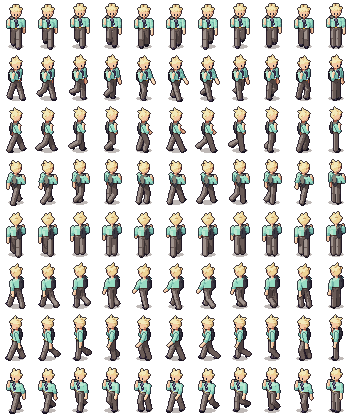
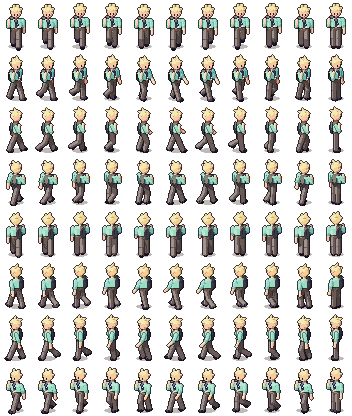
feat(art): square off dress shoes
Dress shoes were an ellipsoid barely different from heels. They are now
a box with a flat sole and a square toe. Render version 6, since dress
shoes draw differently for the same spec.

Changed region(s): [[0.8438, 0.7188, 0.875, 0.75], [0.4688, 0.7188, 0.5, 0.75], [0.0312, 0.0938, 0.0625, 0.125]]

diff --git a/src/art/shoes.node.test.ts b/src/art/shoes.node.test.ts
@@ -1,0 +1,50 @@
+import { describe, expect, it } from 'vitest';
+import { BASE_CHARACTERS, type CharacterSpec, type ShoeStyle } from './characters.ts';
+import { rampsFor } from './rig.ts';
+import { buildCharacterSprites, frameRect } from './spriteSheet.ts';
+import type { Direction } from './directions.ts';
+
+/** The lowest rows of a standing frame: the feet and nothing above the ankles. */
+const FEET_ROWS = 8;
+
+/** A skirt keeps trousers off the feet, so every shoe pixel is the shoe's own. */
+function wearing(shoes: ShoeStyle): CharacterSpec {
+  const base = BASE_CHARACTERS[0]!;
+  return { ...base, bottom: 'skirt', shoes, palette: { ...base.palette, shoes: '#2c4cc9' } };
+}
+
+/** The shoe pixels of a standing frame, x by row, from the top of the feet rows down. */
+function shoeRows(spec: CharacterSpec, direction: Direction): number[][] {
+  const ramp = Object.values(rampsFor(spec).shoes);
+  const { idle } = buildCharacterSprites(spec);
+  const rect = frameRect(direction, 0);
+  const rows: number[][] = [];
+  for (let y = rect.height - FEET_ROWS; y < rect.height; y += 1) {
+    const row: number[] = [];
+    for (let x = 0; x < rect.width; x += 1) {
+      const c = idle.getPixel(rect.x + x, rect.y + y);
+      if (c.a === 255 && ramp.some((r) => r.r === c.r && r.g === c.g && r.b === c.b)) row.push(x);
+    }
+    if (row.length > 0) rows.push(row);
+  }
+  return rows;
+}
+
+describe('shoes', () => {
+  it('draws dress shoes square: a toe that drops straight to a sole as wide as the shoe', () => {
+    // In profile the toe is the front edge: the sole reaches as far forward as the row above it.
+    const east = shoeRows(wearing('dress'), 'E');
+    expect(Math.max(...east.at(-1)!)).toBe(Math.max(...east.at(-2)!));
+    const west = shoeRows(wearing('dress'), 'W');
+    expect(Math.min(...west.at(-1)!)).toBe(Math.min(...west.at(-2)!));
+    // From the front the sole is as wide as the shoe, never a rounded tip.
+    const front = shoeRows(wearing('dress'), 'S');
+    expect(front.at(-1)!.length).toBe(front.at(-2)!.length);
+  });
+
+  it('keeps dress shoes and heels apart', () => {
+    for (const direction of ['E', 'SE'] as const) {
+      expect(shoeRows(wearing('dress'), direction), direction).not.toEqual(shoeRows(wearing('heels'), direction));
+    }
+  });
+});

diff --git a/src/art/spriteSheet.node.test.ts b/src/art/spriteSheet.node.test.ts
@@ -74,21 +74,21 @@ test('the animation changes from frame to frame and each direction looks differe
  * mismatch means the standing or walking look changed; update a line only for an intended edit.
  */
 const WALK_IDLE_HASHES: Readonly<Record<string, string>> = {
-  'p01-burgundy-suit': '9d24c10c24788550',
+  'p01-burgundy-suit': 'de535db8c6543f21',
   'p02-beige-blazer': 'd5ba6b1740b63761',
-  'p03-forest-suit': '871f47b3f0bfa487',
+  'p03-forest-suit': '36ec229264d0d0e0',
   'p04-coral-skirt': 'a4d8e2415bfc7840',
-  'p05-charcoal-suit': 'e5a28bf76d6cba86',
+  'p05-charcoal-suit': '7ebd79b43e833e8f',
   'p06-lavender-blouse': '3bccad50f9f2f9bc',
-  'p07-green-suit': 'cee41b8e103653ed',
-  'p08-purple-suit': 'e2b50fd92ee3a0fa',
-  'p09-mint-shirt': 'bf7ad7bda85ca083',
+  'p07-green-suit': '74f95e8794aa871e',
+  'p08-purple-suit': 'f696927906e36441',
+  'p09-mint-shirt': '87d201b4f4d19840',
   'p10-orange-blazer': '586bd164149264b6',
   'p11-white-blouse': '26c73f021bc48d76',
   'p12-mint-blazer': '1eda57ccf2cbc8a2',
-  'p13-red-suit': 'db76bd20bc46bb9f',
-  'p14-blue-suit': '2a2d72bba60cc718',
-  'p15-yellow-shirt': '8381f1ff7b9abc86',
+  'p13-red-suit': '042e891e94ed979d',
+  'p14-blue-suit': '37523bc2fd95611c',
+  'p15-yellow-shirt': '0d962917f2a7e72d',
   'p16-pink-ponytail': '266c2d1493d65093',
   'p17-blue-wide-pants': '91ade1e8c6116d51',
   'p18-yellow-coat': 'c0b7c73a89531746',

diff --git a/src/art/customCharacter.node.test.ts b/src/art/customCharacter.node.test.ts
@@ -48,6 +48,7 @@ const SPEC: CustomCharacterSpec = {
 };
 
 describe('curated options', () => {
+
   it('keeps every preset list unique and within its curated size', () => {
     for (const [list, min, max] of [
       [SKIN_TONES, 6, 8],
@@ -191,9 +192,9 @@ describe('toCharacterSpec', () => {
   });
 
   it('pins the hash of a fixed spec, so a new render version or encoding is a visible decision', () => {
-    // Version 5: the seated contact shadow sits under the pelvis. Update only together with the version.
-    expect(CHARACTER_RENDER_VERSION).toBe(5);
-    expect(customCharacterHash(CHARACTER_TEMPLATES[0]!.spec)).toBe('77a9f638ca69c3f77496b582be55e8a2');
+    // Version 6: dress shoes are square. Update only together with the version.
+    expect(CHARACTER_RENDER_VERSION).toBe(6);
+    expect(customCharacterHash(CHARACTER_TEMPLATES[0]!.spec)).toBe('0540dee718cf56f0e6ae905c5b895a09');
   });
 
   it('uses the top color as the shirt itself when there is no jacket', () => {

diff --git a/src/art/rig.ts b/src/art/rig.ts
@@ -454,9 +454,12 @@ function addLeg(prims: Primitive[], body: Body, side: Side, joints: LegJoints): 
       }),
     );
   } else {
-    const radii = spec.build === 'broad' ? v3(1.75, 1.1, 2.75) : v3(1.5, 1.0, 2.4);
+    // Dress shoes are a box: a flat sole and a square toe, never the rounded tip heels have.
+    const half = spec.build === 'broad' ? v3(1.6, 0.95, 2.6) : v3(1.35, 0.85, 2.25);
+    const reach = half.y * Math.cos(footPitch) + half.z * Math.abs(Math.sin(footPitch));
+    const center = add(ankle, applyBasis(foot, v3(0, -0.65, 0.95)));
     prims.push(
-      ellipsoid(onFloor(add(ankle, applyBasis(foot, v3(0, -0.6, 0.95))), radii, footPitch), radii, {
+      box(add(center, v3(0, Math.max(0, reach - center.y), 0)), half, {
         basis: foot,
         material: (_point, _normal, local) => ({ key: 'shoes', shift: local.y < -0.55 ? -1 : 0 }),
         part,

diff --git a/src/art/customCharacter.ts b/src/art/customCharacter.ts
@@ -25,7 +25,7 @@ import { sha256Hex } from './sha256.ts';
  * `/assets/characters/<hash>/*` URLs) changes, so no browser keeps a stale cached sheet for a
  * newly saved character. Rows saved before keep their hash and are drawn by the current renderer.
  */
-export const CHARACTER_RENDER_VERSION = 5;
+export const CHARACTER_RENDER_VERSION = 6;
 
 export const CUSTOM_CHARACTER_ID_PREFIX = 'character-custom-';
 const HASH_LENGTH = 32;

diff --git a/.claude/skills/character-creator/references/catalog.md b/.claude/skills/character-creator/references/catalog.md
@@ -41,7 +41,7 @@ Set unused `inner` to `WHITE_SHIRT`. Without `tie`, the tie falls back to `inner
 | `pants` | Straight trousers | p01, p10, p12 |
 | `widePants` | Wide-leg trousers | p02, p06, p17 |
 | `skirt` | Pencil skirt with bare legs | p04, p11, p16, p18 |
-| `dress` (shoes) | Flat dress shoes | p01, p03 |
+| `dress` (shoes) | Square dress shoes: flat sole, square toe | p01, p03 |
 | `heels` (shoes) | Heels | p02, p04 |
 
 ## Accessory (`accessory`), held in the right hand
